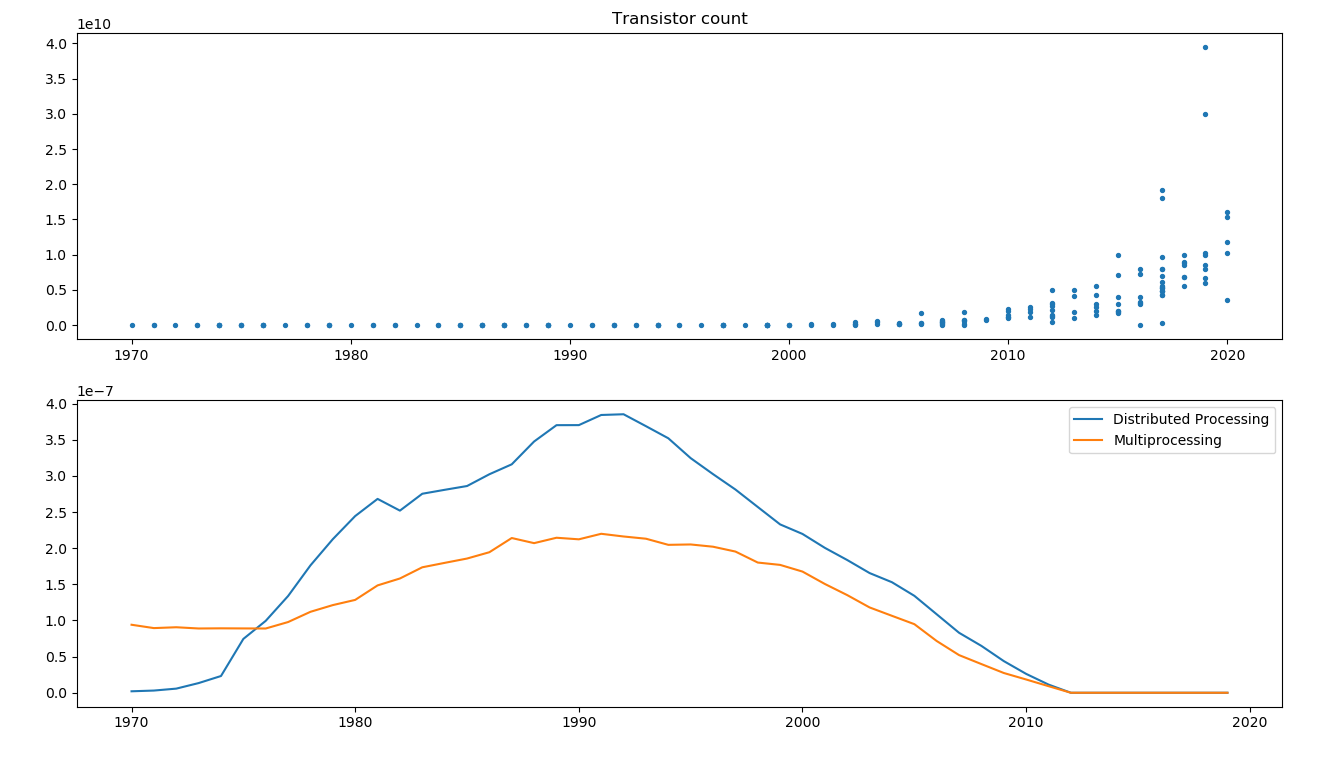
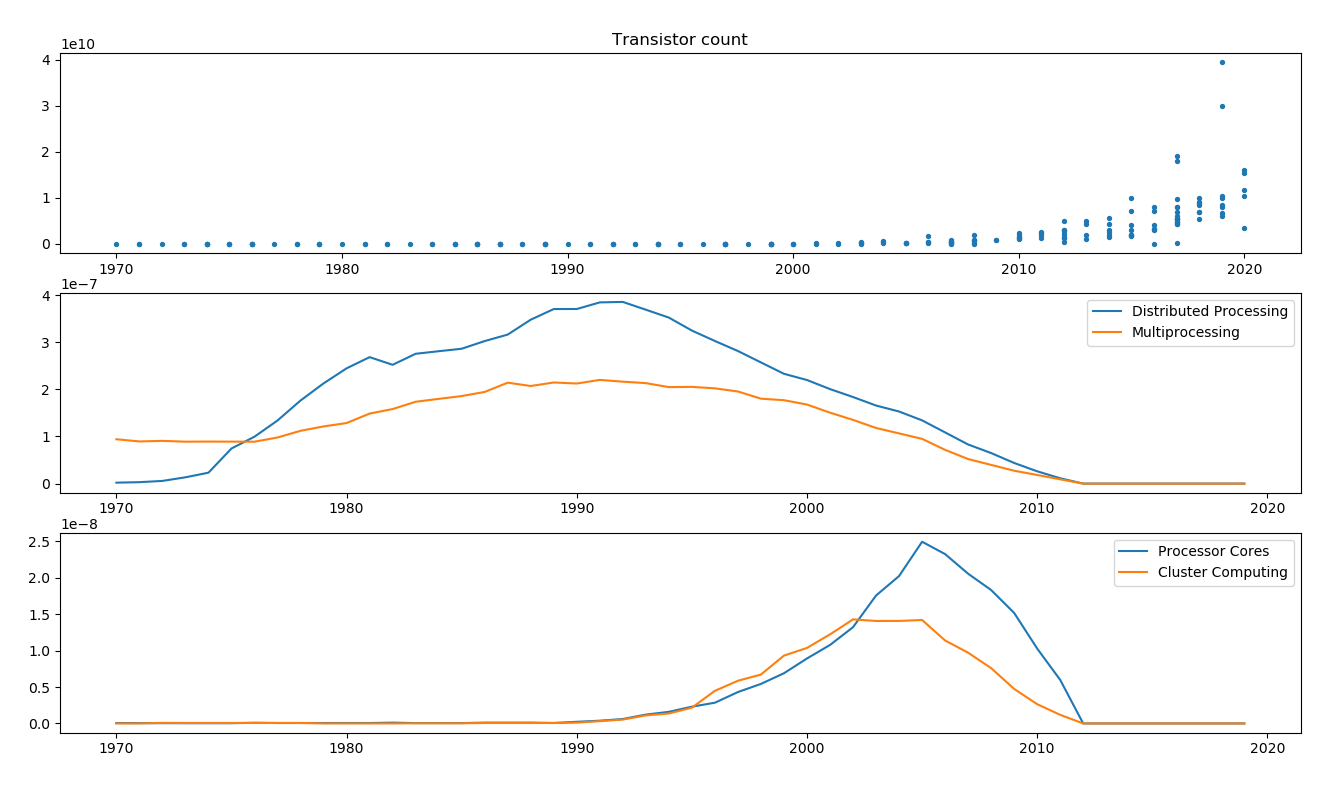
Added more ngram data

diff --git a/Moores.py b/Moores.py
@@ -51,7 +51,7 @@ df = df.applymap(lambda x: sanitize_num(x))
 df = df.set_index("year")
 
 # check to see if everything looks good
-# print(df.head)
+print(df.head)
 
 # store in csv
 df.to_csv("MooresData.csv")
@@ -67,10 +67,13 @@ plt.show()
 
 # Show the transistor scatter plot with the ngram results for distributed processing and multiprocessing
 # ngram data pulled into csv using tool from econpy https://github.com/econpy/google-ngrams pull #18
-ts = pd.read_csv('distributedprocessing_multiprocessing-eng_2012-1970-2019-3-caseSensitive.csv',index_col=0,parse_dates=True)
-fig, axes = plt.subplots(2, 1)
+df_p1 = pd.read_csv('distributedprocessing_multiprocessing-eng_2012-1970-2019-3-caseSensitive.csv',index_col=0,parse_dates=True)
+df_p2 = pd.read_csv('processorcores_clustercomputing-eng_2012-1970-2019-3-caseSensitive.csv',index_col=0,parse_dates=True)
+fig, axes = plt.subplots(3, 1)
 axes[0].scatter(df['transistor count'].index.tolist(), df['transistor count'].values.tolist(), s = 8)
 axes[0].set_title("Transistor count")
-axes[1].plot(ts)
+axes[1].plot(df_p1)
 axes[1].legend(["Distributed Processing", "Multiprocessing"])
+axes[2].plot(df_p2)
+axes[2].legend(["Processor Cores", "Cluster Computing"])
 plt.show()
